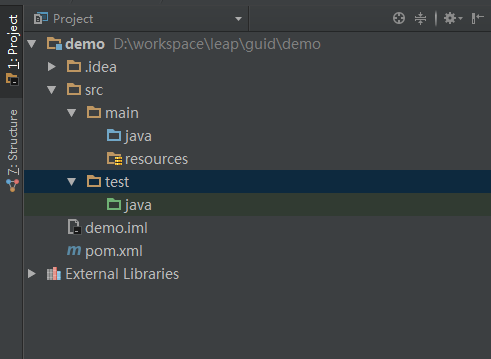
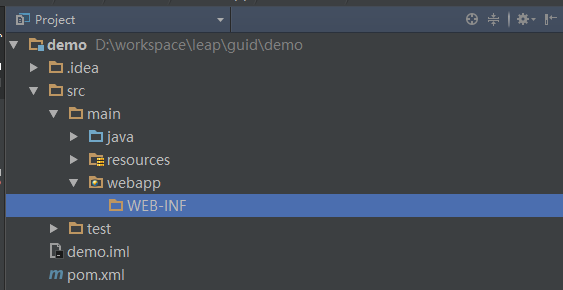
Updates quickstart.md
Auto commit by GitBook Editor

Changed region(s): [[0.0, 0.0, 1.0, 1.0]]

diff --git a/quickstart.md b/quickstart.md
@@ -111,3 +111,6 @@ public class HomeController {
 ```
 
 > **说明：**leap并没有对controller所在的包做限制，只要是在`base-package`下的类即可，leap判断controller的标准是类名以`Controller`为后缀的非抽象类，因此我们不需要做其他特殊的配置。
+
+## 创建应用根页面
+
